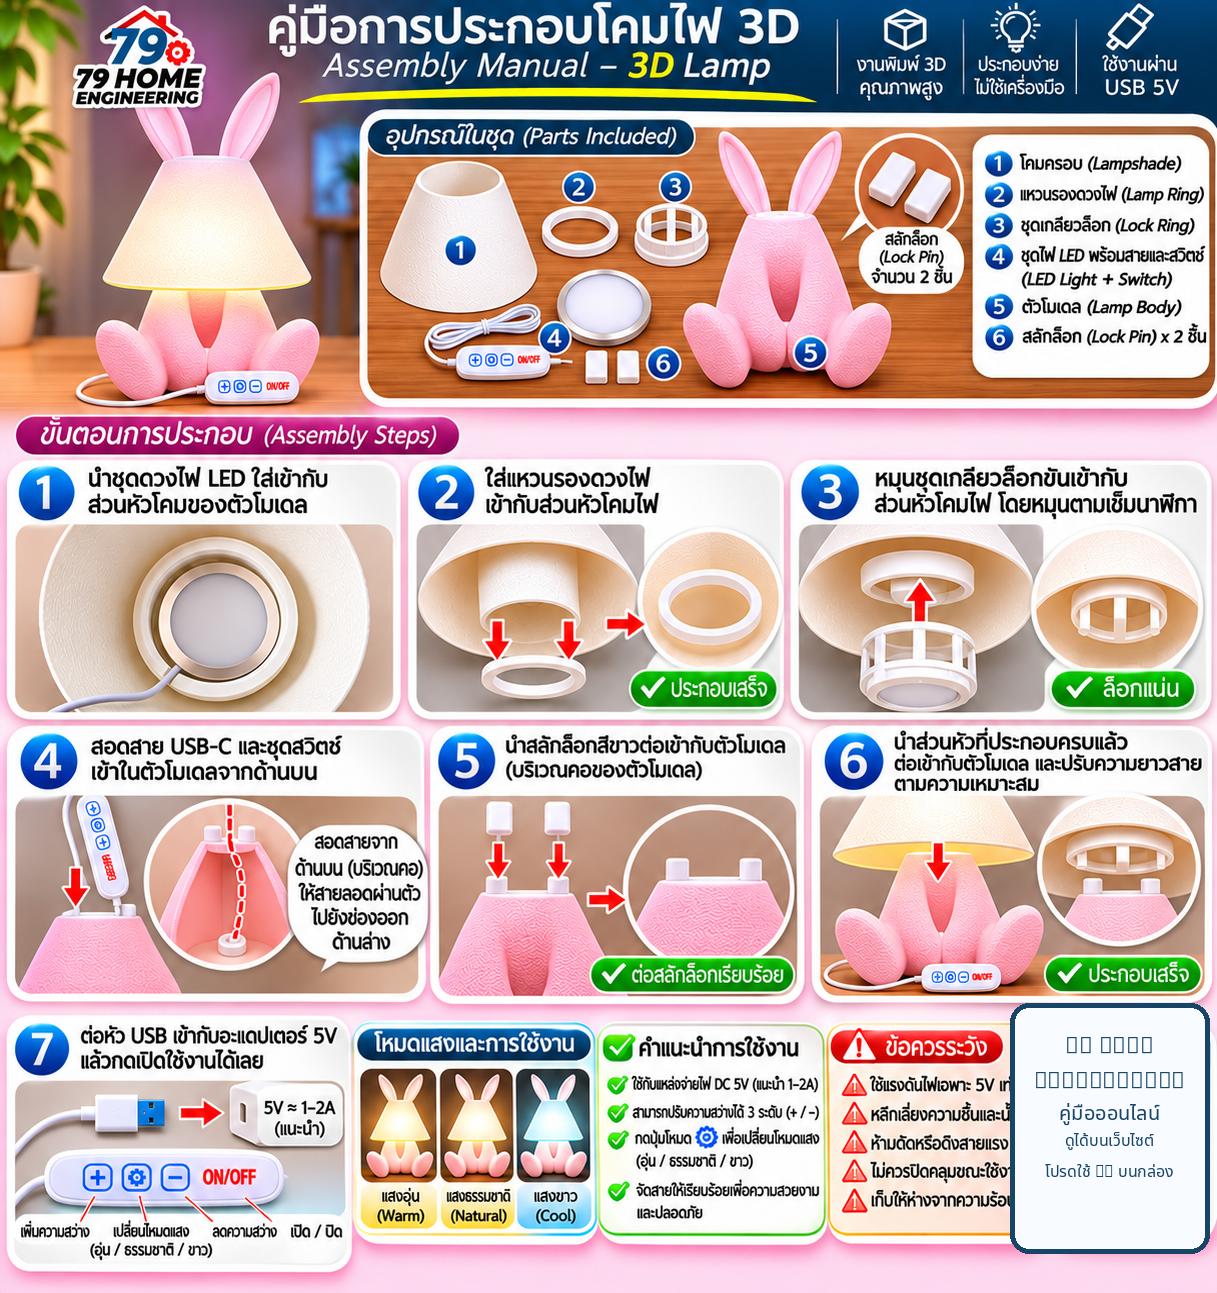
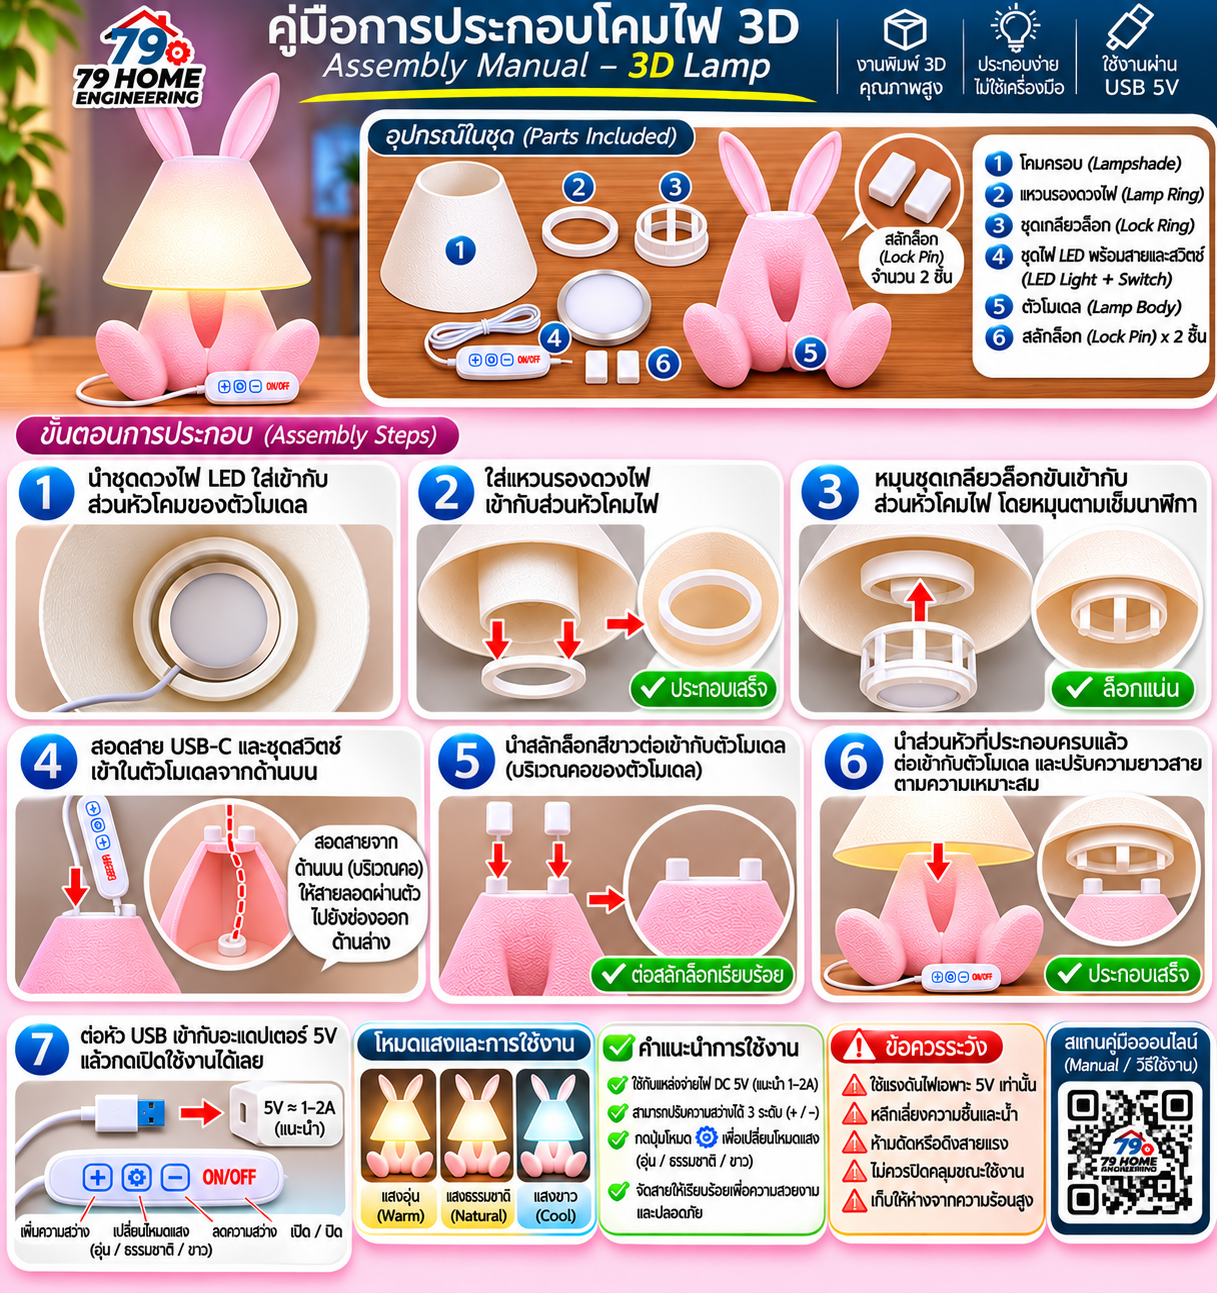
Add files via upload

Changed region(s): [[0.8118, 0.7734, 0.9992, 0.9899]]

diff --git a/index.html b/index.html
@@ -1,1 +1,13 @@
-<!doctype html><html lang="th"><head><meta charset="utf-8"><meta name="viewport" content="width=device-width,initial-scale=1"><meta name="theme-color" content="#102b40"><title>คู่มือประกอบโคมไฟ 3D รุ่นกระต่ายสีชมพู 7 ขั้นตอน | 79 HOME ENGINEERING</title><meta name="description" content="คู่มือประกอบโคมไฟ 3D รุ่นกระต่ายสีชมพู 7 ขั้นตอน | 79 HOME ENGINEERING"><style>*{box-sizing:border-box}body{margin:0;font-family:'Noto Sans Thai',Tahoma,sans-serif;background:#fcf5f8;color:#193347;line-height:1.7}.bar{background:#102b40;color:white;padding:13px 18px}.bar a{color:white;text-decoration:none;font-weight:800}main{max-width:900px;margin:25px auto;padding:0 18px 60px}h1{font-size:clamp(24px,4vw,36px);margin:0 0 8px}.subtitle{color:#657382;margin:0 0 18px}.btn{display:inline-block;background:#102b40;color:white;text-decoration:none;padding:11px 19px;border-radius:12px;font-weight:800;margin:10px 10px 10px 0}.btn.alt{background:white;color:#102b40;border:1px solid #a8bac5}.manual{max-width:100%;height:auto;box-shadow:0 8px 30px #19334724;border-radius:17px;background:white}.notice{padding:14px;border-radius:13px;background:#fff3e8;border:1px solid #efd6ae;margin:22px 0;font-size:14px}footer{text-align:center;color:#627482;font-size:13px;margin-top:22px}</style></head><body><div class="bar"><a href="../../">← 79 HOME ENGINEERING · กลับหน้าแรก</a></div><main><h1>คู่มือประกอบโคมไฟ 3D · กระต่ายสีชมพู</h1><p class="subtitle">คู่มือภาพประกอบ 7 ขั้นตอน สำหรับเปิดดูบนโทรศัพท์</p><img class="manual" src="../../assets/manual-pink.png" alt="คู่มือประกอบโคมไฟ 3D รุ่นกระต่ายสีชมพู 7 ขั้นตอน | 79 HOME ENGINEERING" width="1217" height="1293"><div><a href="../../assets/manual-pink.png" download="79homeengineering-manual-pink.png" class="btn">ดาวน์โหลดภาพคู่มือ PNG</a><a class="btn alt" href="../../#products">ดูรายการสินค้า</a></div><div class="notice">⚠ ใช้ไฟเลี้ยง DC 5V เท่านั้น และหลีกเลี่ยงความชื้นหรือความร้อนสูง ภาพขั้นตอนเป็นภาพประกอบ โปรดตรวจสอบการติดตั้งกับชิ้นส่วนจริง<br>QR Code ที่แสดงในคู่มือฉบับเก่าถูกแทนด้วยข้อความแล้ว เพื่อป้องกันการสแกนลิงก์ที่ไม่ถูกต้อง</div><footer>79 HOME ENGINEERING · 79homeengineering</footer></main></body></html>
+<!DOCTYPE html>
+<html lang="th"><head><meta charset="UTF-8"><meta name="viewport" content="width=device-width, initial-scale=1"><meta name="theme-color" content="#24170f"><meta name="description" content="79 HOME ENGINEERING โคมไฟกระต่าย 3D 490 บาท 4 สี พร้อมคู่มือการประกอบ งานพิมพ์ 3D และงานออกแบบตามสั่ง"><title>79 HOME ENGINEERING | โคมไฟกระต่าย 3D และงานพิมพ์ 3D</title><link rel="icon" href="favicon.svg"><style>
+:root{--ink:#30231b;--brown:#3a241a;--gold:#e7b464;--line:#e9ded1;--cream:#fffaf3;--muted:#6d6259}*{box-sizing:border-box}html{scroll-behavior:smooth}body{margin:0;font-family:system-ui,'Noto Sans Thai',Tahoma,sans-serif;background:var(--cream);color:var(--ink)}a{color:inherit}button{font:inherit;cursor:pointer}header{position:sticky;top:0;z-index:20;background:#24170fee;color:#fff;backdrop-filter:blur(13px);border-bottom:1px solid #ffffff22}nav{max-width:1190px;margin:auto;display:flex;align-items:center;gap:20px;padding:14px 18px;flex-wrap:wrap}.brand{font-weight:900;font-size:18px;letter-spacing:.3px;text-decoration:none;margin-right:auto}.brand span{color:#f3c178}.navlinks{display:flex;gap:17px;flex-wrap:wrap;font-size:14px}.navlinks a{text-decoration:none;color:#f4eadb}.navlinks a:hover{color:#f9ce85}.hero{background:linear-gradient(120deg,#261a16d9,#261a1670),url('images/red-heart.webp') center 42%/cover;color:white;min-height:520px;display:flex;align-items:center}.hero-inner{max-width:1190px;width:100%;margin:auto;padding:65px 20px}.eyebrow{font-size:12px;letter-spacing:3px;text-transform:uppercase;color:#fbd392;font-weight:800}.hero h1{font-size:clamp(34px,6vw,65px);line-height:1.14;max-width:750px;margin:18px 0}.hero p{font-size:clamp(16px,2vw,21px);max-width:640px;line-height:1.85}.buttons{display:flex;flex-wrap:wrap;gap:12px;margin-top:25px}.btn{border:0;background:#eab766;color:#291a13;border-radius:999px;padding:12px 22px;font-weight:800;text-decoration:none;display:inline-flex;align-items:center;justify-content:center}.btn.ghost{background:transparent;border:1px solid #fff8;color:white}.btn.dark{background:#35241b;color:#fff}.shell{max-width:1190px;padding:60px 18px;margin:auto}section h2{font-size:clamp(25px,3.2vw,37px);margin:4px 0 10px}.lead{color:var(--muted);line-height:1.8;margin:0 0 24px}.featurebar{display:grid;grid-template-columns:repeat(4,1fr);gap:12px;margin-top:-30px;position:relative}.feature{padding:18px;background:white;box-shadow:0 8px 26px #1e100d12;border:1px solid var(--line);border-radius:16px;text-align:center}.feature strong{display:block;margin-bottom:5px}.feature small{color:var(--muted)}.filters{display:flex;gap:8px;flex-wrap:wrap;margin:26px 0}.filter{background:#fff;border:1px solid #d7c4af;border-radius:99px;padding:9px 17px;color:#533e2c}.filter.active{background:#35261e;color:white;border-color:#35261e}.cards{display:grid;grid-template-columns:repeat(3,minmax(0,1fr));gap:22px}.card{border:1px solid var(--line);border-radius:19px;overflow:hidden;background:white;box-shadow:0 9px 26px #2d1a1010}.card img{width:100%;aspect-ratio:1;object-fit:cover;display:block;background:#e6d3bd}.card-body{padding:18px}.card h3{font-size:18px;margin:2px 0 9px}.meta{font-size:13px;color:var(--muted);margin:0 0 13px}.price{font-size:25px;font-weight:900;color:#a33d20}.card-bottom{display:flex;justify-content:space-between;align-items:center;gap:10px}.order{border:0;background:#34231a;color:#fff;border-radius:10px;padding:10px 13px;font-weight:750}.small{font-size:12px;color:var(--muted)}.manuals{display:grid;grid-template-columns:repeat(2,1fr);gap:24px}.manual-card{background:white;border:1px solid var(--line);border-radius:20px;overflow:hidden}.manual-card img{width:100%;height:260px;object-fit:cover;object-position:center top;display:block}.manual-content{padding:22px}.manual-content h3{margin:0 0 8px}.manual-content p{color:var(--muted);line-height:1.75}.services{background:#f5eadb}.service-grid{display:grid;grid-template-columns:repeat(3,1fr);gap:20px}.service{background:#fff;padding:23px;border-radius:17px;border:1px solid #e8d9c6}.service h3{margin:8px 0}.service p{color:var(--muted);line-height:1.75}.contact-list{display:grid;grid-template-columns:repeat(4,1fr);gap:14px}.contact-list a{display:block;text-align:center;background:white;padding:20px 10px;border-radius:14px;text-decoration:none;border:1px solid var(--line);font-weight:800}.note{margin-top:23px;color:#7a6757;font-size:13px;line-height:1.8}footer{background:#24170f;color:#f3e7d7;text-align:center;padding:35px 15px;font-size:14px}.viewer{border:none;max-width:min(94vw,950px);max-height:94vh;padding:0;border-radius:13px;background:white;box-shadow:0 18px 70px #0009}.viewer::backdrop{background:#170e0be5}.viewer img{display:block;max-width:100%;max-height:82vh;margin:auto;object-fit:contain}.viewer-foot{display:flex;justify-content:space-between;align-items:center;gap:14px;padding:10px 15px}.viewer-foot button{border:0;background:#35241b;color:white;padding:9px 15px;border-radius:8px}#top{scroll-margin-top:90px}section[id]{scroll-margin-top:90px}@media(max-width:850px){.featurebar{grid-template-columns:repeat(2,1fr)}.cards{grid-template-columns:repeat(2,1fr)}.contact-list{grid-template-columns:repeat(2,1fr)}.service-grid{grid-template-columns:1fr}.hero{min-height:440px}}@media(max-width:570px){.cards,.manuals{grid-template-columns:1fr}.hero{min-height:430px;background-position:56% center}.hero-inner{padding:58px 18px}.shell{padding:42px 14px}.navlinks{gap:10px}.brand{width:100%}.manual-card img{height:220px}.feature{padding:14px 9px}}
+</style></head><body><header><nav><a class="brand" href="#top">79 <span>HOME ENGINEERING</span></a><div class="navlinks"><a href="#products">สินค้า</a><a href="#manuals">คู่มือประกอบ</a><a href="#services">บริการ 3D</a><a href="#contact">ติดต่อร้าน</a></div></nav></header>
+<main id="top"><div class="hero"><div class="hero-inner"><div class="eyebrow">3D Printed Lighting · Custom Design</div><h1>โคมไฟกระต่าย 3D<br>แต่งห้องให้มีชีวิตชีวา</h1><p>เลือกสี เลือกท่านั่ง หรือสั่งทำสีพิเศษได้ตามใจคุณ พร้อมไฟ USB 5V เปลี่ยนแสงได้ 3 โทน และปรับความสว่างได้หลายระดับ</p><div class="buttons"><a class="btn" href="#products">ชมสินค้า เริ่มต้น 490 บาท</a><a class="btn ghost" href="#manuals">เปิดคู่มือประกอบ</a></div></div></div>
+<section class="shell" style="padding-top:0"><div class="featurebar"><div class="feature"><strong>490 บาท / ตัว</strong><small>ราคาโคมไฟทุกรุ่น</small></div><div class="feature"><strong>แสงไฟ 3 โทน</strong><small>Warm / Natural / Cool</small></div><div class="feature"><strong>USB 5V</strong><small>ใช้งานง่ายผ่านสวิตช์</small></div><div class="feature"><strong>สั่งทำสีพิเศษ</strong><small>เลือกสีตัวและชิ้นส่วน</small></div></div></section>
+<section id="products" class="shell"><div class="eyebrow">Our collection</div><h2>เลือกโคมไฟที่ชอบ</h2><p class="lead">ภาพจากชุดตัวอย่างที่ร้านจัดทำ · มีสีขาว ชมพู แดง และเหลือง · ทุกรุ่นหูกระต่ายสีขาวและฝาครอบสีขาว พร้อมไฟในตัว<br>ภาพตัวอย่างที่แสดงอาจมีรายละเอียดแตกต่างจากชิ้นงานจริง โปรดสอบถามร้านก่อนสั่งทำ</p><div class="filters" id="filters"><button class="filter active" data-color="all">ทั้งหมด</button><button class="filter" data-color="pink">สีชมพู</button><button class="filter" data-color="yellow">สีเหลือง</button><button class="filter" data-color="red">สีแดง</button><button class="filter" data-color="white">สีขาว</button></div><div class="cards" id="catalog"></div><p class="note">หมายเหตุ: ภาพชุดนี้มี 10 ตัวอย่างจากภาพที่คุณให้มา ยังไม่ได้แสดงครบทั้ง 16 ตัวเลือก (4 ท่า × 4 สี) เพื่อไม่ใช้รูปแทนท่าทางที่ไม่ตรงกับสินค้าจริง</p></section>
+<section id="manuals" class="shell"><div class="eyebrow">Assembly manuals</div><h2>คู่มือการประกอบโคมไฟ</h2><p class="lead">เปิดอ่านภาพคู่มือบนมือถือหรือดาวน์โหลดเพื่อดูแบบเต็มความละเอียด</p><div class="manuals"><article class="manual-card"><img src="images/manual-pink.png" alt="คู่มือประกอบโคมไฟกระต่ายสีชมพู 7 ขั้นตอน" loading="lazy"><div class="manual-content"><h3>คู่มือรุ่นกระต่ายสีชมพู</h3><p>คู่มือฉบับภาพ 7 ขั้นตอนที่คุณแนบล่าสุด ดูภาพเต็มและดาวน์โหลดได้</p><a class="btn dark" href="manual-pink.html">เปิดคู่มือสีชมพู</a></div></article><article class="manual-card"><img src="manual-yellow-thumb.webp" alt="ภาพตัวอย่างคู่มือสีเหลือง" loading="lazy"><div class="manual-content"><h3>คู่มือรุ่นสีเหลือง</h3><p>ใช้คู่มือสีเหลืองฉบับเดิมที่จัดเก็บอยู่แล้วใน Repository</p><a class="btn dark" href="manual-yellow.html">เปิดคู่มือสีเหลือง</a></div></article></div><p class="note">ข้อควรระวัง: ใช้ไฟ DC 5V เท่านั้น หลีกเลี่ยงความชื้นและความร้อนสูง ตรวจสอบการประกอบให้แน่นก่อนใช้งาน</p></section>
+<section id="services" class="services"><div class="shell"><div class="eyebrow">Made for you</div><h2>รับออกแบบและผลิตงาน 3D ตามสั่ง</h2><div class="service-grid"><div class="service"><h3>🎨 เลือกสีแบบพิเศษ</h3><p>เลือกสีตัวกระต่าย สีหัวใจและสีชิ้นส่วน ให้เข้ากับสไตล์ของคุณ</p></div><div class="service"><h3>🏠 ป้ายร้านและป้ายตกแต่ง</h3><p>รับออกแบบป้ายร้าน ป้ายชื่อและของตกแต่งด้วยงานพิมพ์ 3D</p></div><div class="service"><h3>🧩 รับพิมพ์โมเดล 3D</h3><p>ปรึกษาออกแบบและผลิตชิ้นงาน 3D ตามรูปแบบและความต้องการ</p></div></div></div></section>
+<section id="contact" class="shell"><div class="eyebrow">Let's talk</div><h2>ติดต่อ 79 HOME ENGINEERING</h2><p class="lead">สอบถามสินค้า สีพิเศษ หรือส่งภาพตัวอย่างงานออกแบบได้ทางช่องทางร้าน</p><div class="contact-list"><a href="https://line.me/R/ti/p/@79homeengineering" target="_blank" rel="noopener">LINE OA ↗</a><a href="https://www.facebook.com/79homeengineering" target="_blank" rel="noopener">Facebook ↗</a><a href="https://www.instagram.com/79homeengineering/" target="_blank" rel="noopener">Instagram ↗</a><a href="https://www.tiktok.com/@79homeengineering" target="_blank" rel="noopener">TikTok ↗</a></div><p class="note">โปรดตรวจสอบชื่อบัญชีปลายทางก่อนทำรายการ โดยเฉพาะลิงก์ LINE OA ซึ่งอาจต้องเปลี่ยนเป็น URL บัญชีทางการที่ร้านใช้งานจริง</p></section>
+</main><footer>© 2026 79 HOME ENGINEERING · งานพิมพ์ 3D และงานออกแบบตามสั่ง</footer>
+<dialog id="photoViewer" class="viewer" aria-label="ดูภาพสินค้า"><img id="viewerImg" alt="ภาพสินค้า"><div class="viewer-foot"><span id="viewerCaption"></span><button id="closeViewer">ปิดภาพ</button></div></dialog>
+<script>const inventory=[["yellow-classic", "สีเหลือง · นั่งมือเท้าตรงกลาง", "yellow", "classic"], ["yellow-relaxed", "สีเหลือง · นั่งชิล", "yellow", "relaxed"], ["white-classic", "สีขาว · นั่งมือเท้าตรงกลาง", "white", "classic"], ["white-relaxed", "สีขาว · นั่งชิล", "white", "relaxed"], ["white-heart", "สีขาว · กอดหัวใจแดง", "white", "heart"], ["pink-classic", "สีชมพู · นั่งมือเท้าตรงกลาง", "pink", "classic"], ["pink-relaxed", "สีชมพู · นั่งชิล", "pink", "relaxed"], ["pink-heart", "สีชมพู · กอดหัวใจแดง", "pink", "heart"], ["red-classic", "สีแดง · นั่งมือเท้าตรงกลาง", "red", "classic"], ["red-heart", "สีแดง · กอดหัวใจขาว", "red", "heart"]];const catalog=document.getElementById('catalog');function card(item){let [slug,name,color,pose]=item;return `<article class="card" data-color="${color}"><a href="images/${slug}.webp" class="view-img" data-name="${name}"><img loading="lazy" src="images/${slug}.webp" alt="โคมไฟกระต่าย ${name} 79 HOME ENGINEERING"></a><div class="card-body"><h3>${name}</h3><p class="meta">หูกระต่ายสีขาว · ฝาครอบขาว · LED USB 5V</p><div class="card-bottom"><div><span class="price">฿490</span><div class="small">สั่งทำสีพิเศษได้</div></div><button class="order" data-name="${name}">สอบถามสินค้า</button></div></div></article>`}catalog.innerHTML=inventory.map(card).join('');const dlg=document.getElementById('photoViewer');document.addEventListener('click',e=>{let filter=e.target.closest('.filter');if(filter){document.querySelectorAll('.filter').forEach(b=>b.classList.toggle('active',b===filter));document.querySelectorAll('.card').forEach(c=>c.hidden=filter.dataset.color!=='all'&&c.dataset.color!==filter.dataset.color);return}let pic=e.target.closest('.view-img');if(pic){e.preventDefault();document.getElementById('viewerImg').src=pic.href;document.getElementById('viewerCaption').textContent=pic.dataset.name;dlg.showModal();return}let order=e.target.closest('.order');if(order){let message=`สวัสดีครับ สนใจโคมไฟกระต่าย 3D รุ่น ${order.dataset.name} ราคา 490 บาท ขอสอบถามรายละเอียดและวิธีสั่งซื้อครับ`;navigator.clipboard?.writeText(message).catch(()=>{});alert('ข้อความสอบถามสินค้า:\n'+message+'\n\nสามารถคัดลอกข้อความไปส่งทางช่องทางติดต่อด้านล่างได้');document.getElementById('contact').scrollIntoView({behavior:'smooth'})}});document.getElementById('closeViewer').onclick=()=>dlg.close();</script></body></html>

diff --git a/manual-pink.html b/manual-pink.html
@@ -1,0 +1,1 @@
+<!doctype html><html lang="th"><head><meta charset="utf-8"><meta name="viewport" content="width=device-width,initial-scale=1"><title>คู่มือประกอบโคมไฟกระต่ายสีชมพู | 79 HOME ENGINEERING</title><meta name="theme-color" content="#24170f"><style>*{box-sizing:border-box}body{margin:0;font-family:system-ui,Tahoma,sans-serif;background:#fff7f6;color:#322116}header{background:#24170f;color:white;padding:17px}header a{color:white;text-decoration:none;font-weight:bold}main{max-width:1100px;margin:auto;padding:25px 15px 60px}h1{font-size:clamp(23px,4vw,36px)}img{width:100%;height:auto;display:block;border-radius:12px;box-shadow:0 10px 25px #321c1b29}.btn{display:inline-block;background:#33221b;color:white;padding:12px 20px;border-radius:10px;text-decoration:none;margin:20px 10px 15px 0}p{line-height:1.8}</style></head><body><header><a href="./#manuals">← 79 HOME ENGINEERING · กลับหน้าคู่มือ</a></header><main><h1>คู่มือประกอบโคมไฟกระต่ายสีชมพู</h1><p>คู่มือภาพประกอบ 7 ขั้นตอน | แนะนำให้ขยายภาพเพื่ออ่านรายละเอียด</p><a href="images/manual-pink.png" download class="btn">ดาวน์โหลดคู่มือ PNG</a><a href="./#products" class="btn">ดูสินค้า</a><img src="images/manual-pink.png" alt="คู่มือประกอบโคมไฟกระต่ายสีชมพู 7 ขั้นตอน"><p>⚠ ใช้ไฟเลี้ยง DC 5V เท่านั้น ตรวจสอบการต่ออุปกรณ์ให้ถูกต้องก่อนเปิดใช้งาน และหลีกเลี่ยงน้ำหรือความชื้นสูง</p></main></body></html>
